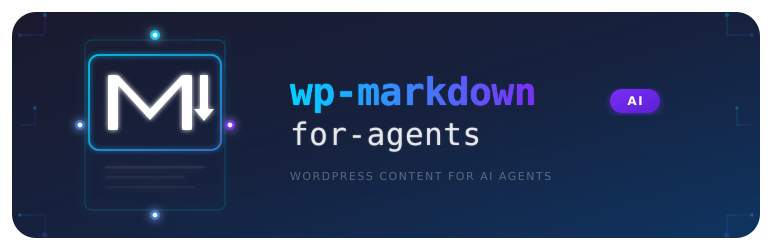
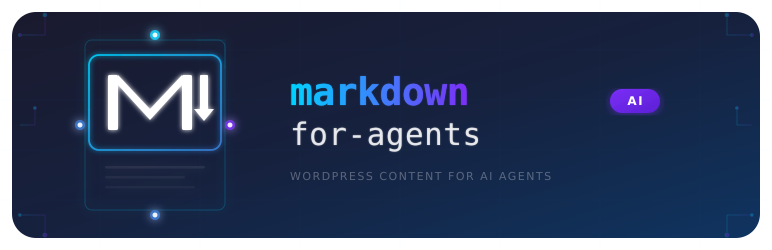
ci: add plugin-check devcontainer workflow

Changed region(s): [[0.3731, 0.308, 0.715, 0.448]]

diff --git a/markdown-for-ai-agents.php b/markdown-for-ai-agents.php
@@ -15,7 +15,6 @@
  * License:           GPL v2 or later
  * License URI:       https://www.gnu.org/licenses/gpl-2.0.html
  * Text Domain:       markdown-for-ai-agents
- * Domain Path:       /languages
  */
 
 if ( ! defined( 'ABSPATH' ) ) {
@@ -34,8 +33,6 @@ require_once MD_FOR_AGENTS_PLUGIN_DIR . 'includes/class-md-for-agents-url-handle
  * Initialize the plugin.
  */
 function md_for_agents_init() {
-	load_plugin_textdomain( 'markdown-for-ai-agents', false, dirname( plugin_basename( __FILE__ ) ) . '/languages' );
-
 	$converter = new MD_For_Agents_Markdown_Converter();
 	new MD_For_Agents_Button_Injector();
 	new MD_For_Agents_URL_Handler( $converter );

diff --git a/README.md b/README.md
@@ -6,7 +6,7 @@
 
 <p align="center">
   <a href="https://github.com/0GiS0/wp-markdown-for-agents/releases/latest"><img src="https://img.shields.io/github/v/release/0GiS0/wp-markdown-for-agents?display_name=tag&amp;label=latest%20release" alt="Latest release" /></a>
-  <a href="https://github.com/0GiS0/wp-markdown-for-agents/releases/latest/download/wp-markdown-for-agents.zip"><img src="https://img.shields.io/badge/download-latest%20ZIP-2ea44f?logo=github" alt="Download ZIP" /></a>
+  <a href="https://github.com/0GiS0/wp-markdown-for-agents/releases/latest/download/markdown-for-ai-agents.zip"><img src="https://img.shields.io/badge/download-latest%20ZIP-2ea44f?logo=github" alt="Download ZIP" /></a>
   <a href="https://github.com/0GiS0/wp-markdown-for-agents/actions/workflows/ci.yml"><img src="https://img.shields.io/github/actions/workflow/status/0GiS0/wp-markdown-for-agents/ci.yml?branch=main&amp;label=ci" alt="CI" /></a>
   <a href="https://wordpress.org/"><img src="https://img.shields.io/badge/WordPress-5.0%2B-21759B?logo=wordpress&amp;logoColor=white" alt="WordPress 5.0+" /></a>
   <a href="https://www.php.net/"><img src="https://img.shields.io/badge/PHP-7.4%2B-777BB4?logo=php&amp;logoColor=white" alt="PHP 7.4+" /></a>
@@ -16,7 +16,7 @@
 Turn WordPress posts and pages into clean Markdown for AI agents, automation tools, and humans. Add `?format=markdown` to any singular post or page URL and the plugin returns a Markdown response with YAML frontmatter and Markdown-friendly content.
 
 > [!TIP]
-> Want the fastest install path? Download the latest plugin package here: [wp-markdown-for-agents.zip](https://github.com/0GiS0/wp-markdown-for-agents/releases/latest/download/wp-markdown-for-agents.zip)
+> Want the fastest install path? Download the latest plugin package here: [markdown-for-ai-agents.zip](https://github.com/0GiS0/wp-markdown-for-agents/releases/latest/download/markdown-for-ai-agents.zip)
 
 This README is the GitHub landing page for releases, development, and creator links. The WordPress.org-specific plugin description stays in [readme.txt](https://github.com/0GiS0/wp-markdown-for-agents/blob/main/readme.txt).
 
@@ -33,7 +33,7 @@ This README is the GitHub landing page for releases, development, and creator li
 
 This is the recommended path if you just want to use the plugin in WordPress.
 
-1. Download the latest release asset: [wp-markdown-for-agents.zip](https://github.com/0GiS0/wp-markdown-for-agents/releases/latest/download/wp-markdown-for-agents.zip)
+1. Download the latest release asset: [markdown-for-ai-agents.zip](https://github.com/0GiS0/wp-markdown-for-agents/releases/latest/download/markdown-for-ai-agents.zip)
 2. In WordPress admin, go to Plugins > Add New Plugin > Upload Plugin.
 3. Upload the ZIP file and activate the plugin.
 4. Open any published post or page and click "View as Markdown", or append `?format=markdown` to the URL.
@@ -58,7 +58,7 @@ chmod +x package-plugin.sh
 ./package-plugin.sh
 ```
 
-That creates `dist/wp-markdown-for-agents.zip`.
+That creates `dist/markdown-for-ai-agents.zip`.
 
 ## Usage
 
@@ -116,7 +116,7 @@ Article content in clean Markdown...
 ## Project links
 
 - [Latest release](https://github.com/0GiS0/wp-markdown-for-agents/releases/latest)
-- [Download latest ZIP](https://github.com/0GiS0/wp-markdown-for-agents/releases/latest/download/wp-markdown-for-agents.zip)
+- [Download latest ZIP](https://github.com/0GiS0/wp-markdown-for-agents/releases/latest/download/markdown-for-ai-agents.zip)
 - [Development guide](https://github.com/0GiS0/wp-markdown-for-agents/blob/main/docs/development.md)
 - [Release workflow notes](https://github.com/0GiS0/wp-markdown-for-agents/blob/main/docs/releasing.md)
 - [WordPress.org readme](https://github.com/0GiS0/wp-markdown-for-agents/blob/main/readme.txt)

diff --git a/AGENTS.md b/AGENTS.md
@@ -12,6 +12,7 @@
 
 - Run the relevant local checks whenever you implement or modify behavior.
 - At minimum, run `composer lint:php` before opening or updating a pull request.
+- Run the local Plugin Check validation before pushing changes or updating a pull request. Use `wp --path=/srv/wordpress plugin check markdown-for-ai-agents --require=/srv/wordpress/wp-content/plugins/plugin-check/cli.php --exclude-directories=.devcontainer,.github,vendor,dist --exclude-files=.gitignore,install-git-hooks.sh,package-plugin.sh,phpcs.xml.dist,AGENTS.md` or the equivalent `plugin check` VS Code task.
 - Run `composer lint` when you want the repository-standard PHPCS checks.
 - If packaging, release automation, or distributable contents changed, also verify `./package-plugin.sh` or the equivalent packaging task.
 - Do not merge changes that have not been validated locally unless there is a documented reason.
@@ -41,7 +42,7 @@ If a pull request should not appear in the changelog, use `skip-changelog`.
 ## Versioning
 
 - Use SemVer for plugin versions and git tags.
-- Keep the plugin header version and the `MD_FOR_AGENTS_VERSION` constant in `wp-markdown-for-agents.php` aligned.
+- Keep the plugin header version and the `MD_FOR_AGENTS_VERSION` constant in `markdown-for-ai-agents.php` aligned.
 - Decide the version bump in every release-facing pull request.
 
 SemVer rules for this repository:
@@ -65,10 +66,11 @@ Practical rule:
 Recommended release flow:
 
 1. Merge the release-ready pull request into `main`.
-2. Confirm the plugin version in `wp-markdown-for-agents.php` matches the intended release version.
+2. Confirm the plugin version in `markdown-for-ai-agents.php` matches the intended release version.
 3. Confirm merged pull requests included in the release have exactly one changelog category label, or `skip-changelog`.
-4. Create and push the tag from `main`, for example `v1.0.1`.
-5. Verify the generated GitHub release body and attached ZIP.
+4. Review the current WordPress.org Detailed Plugin Guidelines before generating a new release: `https://developer.wordpress.org/plugins/wordpress-org/detailed-plugin-guidelines/`.
+5. Create and push the tag from `main`, for example `v1.0.1`.
+6. Verify the generated GitHub release body and attached ZIP.
 
 ## Changelog Notes
 

diff --git a/docs/releasing.md b/docs/releasing.md
@@ -20,11 +20,11 @@ git push origin v1.0.1
 
 When you push a matching tag, GitHub Actions will:
 
-- Build `dist/wp-markdown-for-agents.zip`
+- Build `dist/markdown-for-ai-agents.zip`
 - Build a categorized changelog from merged pull requests
 - Create a GitHub Release automatically
 - Attach the plugin ZIP to that release
 
-For consistency, keep the plugin version in `wp-markdown-for-agents.php` aligned with the tag you publish.
+For consistency, keep the plugin version in `markdown-for-ai-agents.php` aligned with the tag you publish.
 
 The changelog is configured in `release-changelog-builder-config.json` and groups pull requests according to the repository labels, so the release notes depend on using labels consistently on PRs.
